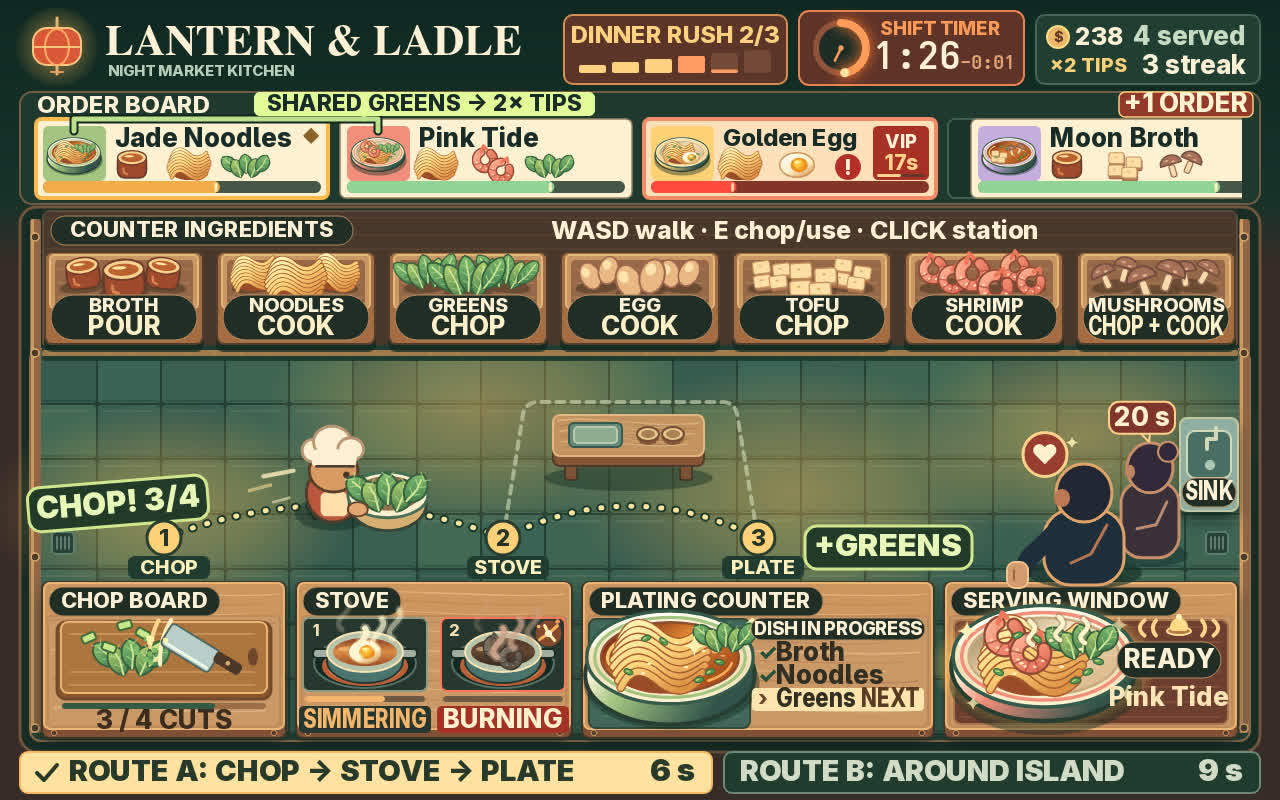
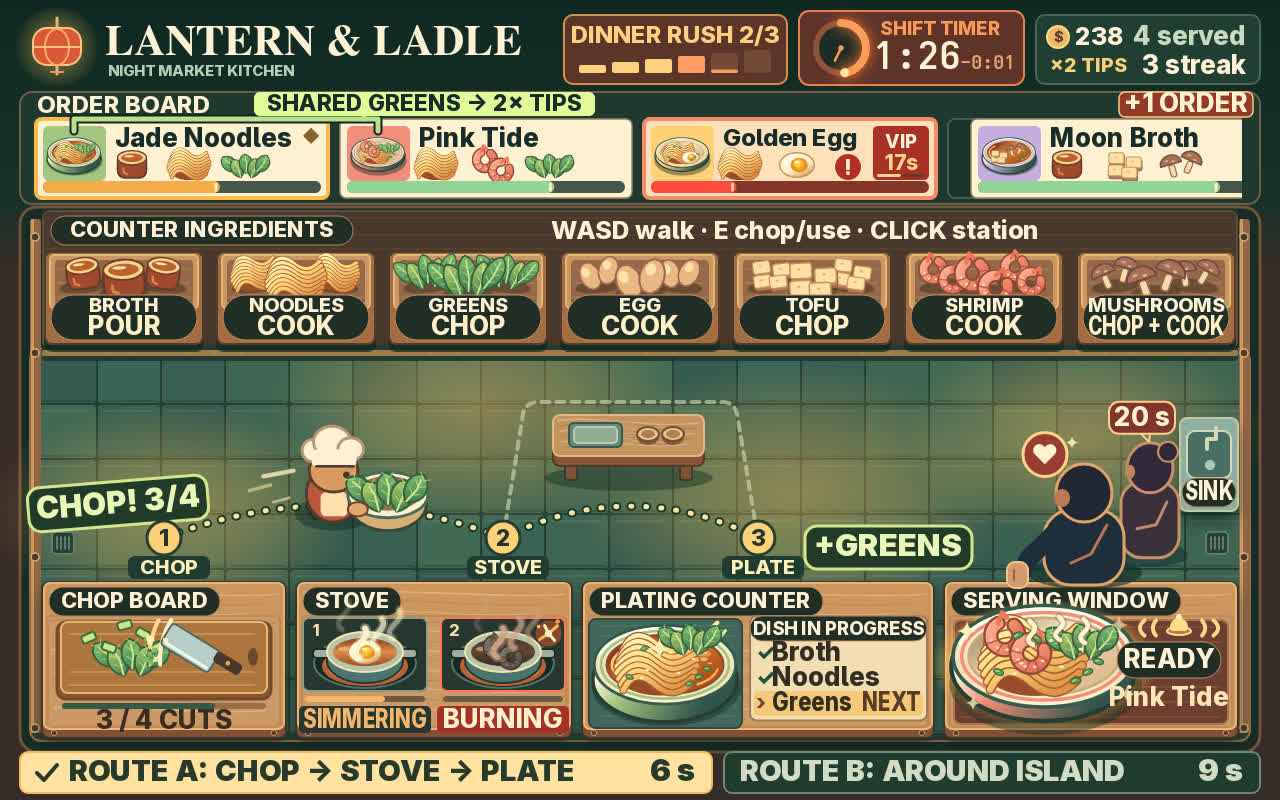
v29: separate bowl and dish-progress card on plating counter

Changed region(s): [[0.4375, 0.75, 0.75, 0.9062]]

diff --git a/game/src/worktops.js b/game/src/worktops.js
@@ -183,35 +183,47 @@ export function drawPlating(ctx, state) {
   const largerLabels = cover || !state.staged;
   const recipe = platingRecipe(state);
   const resting = queuedPlate && !layers.length;
-  const listX = largerLabels ? 751 : 772;
-  panel(ctx, 589, 619, listX - 590, 109, 7, '#41665a', '#31493d');
-  for (let y = 626; y < 724; y += 10) stroke(ctx, '#b9d1ac33', 1.2, [[597, y], [listX - 9, y]]);
-  const bounce = Math.max(0, 1 - (state.elapsed - state.platePop) * 7) * .13;
-  drawDish(ctx, resting ? queuedPlate.layers : layers, largerLabels ? 670 : 679, 659,
-    (largerLabels ? 1.6 : 1.78) + bounce, resting ? queuedPlate.color : recipe.color, resting ? queuedPlate.shape : recipe.shape);
-  if (cover) drawFallingGreens(ctx, state.coverMotion);
   const checklist = resting ? queuedPlate : recipe;
+  const listX = largerLabels ? 750 : 772;
+  const listRight = largerLabels ? 927 : 925;
+  const matRight = largerLabels ? 742 : listX - 1;
+  panel(ctx, 589, 619, matRight - 589, 109, 7, '#41665a', '#31493d');
+  for (let y = 626; y < 724; y += 10) stroke(ctx, '#b9d1ac33', 1.2, [[597, y], [matRight - 8, y]]);
+  const bounce = Math.max(0, 1 - (state.elapsed - state.platePop) * 7) * .13;
+  drawDish(ctx, resting ? queuedPlate.layers : layers, largerLabels ? 665 : 679, largerLabels ? 666 : 659,
+    (largerLabels ? 1.36 : 1.78) + bounce, checklist.color, checklist.shape);
+  if (cover) drawFallingGreens(ctx, state.coverMotion);
+  const fourRows = largerLabels && checklist.layers.length === 4;
+  const rowHeight = largerLabels ? (fourRows ? 22 : 25) : 19;
+  const firstRow = fourRows ? 652 : 653;
+  if (largerLabels) {
+    const cardBottom = firstRow + (checklist.layers.length - .5) * rowHeight + 5;
+    panel(ctx, listX, 616, listRight - listX, cardBottom - 616, 7, '#f4ddb4', '#a57850');
+  }
   drawKitchenSign(ctx, resting ? 'ON TRAY' : layers.length ? 'DISH IN PROGRESS' : 'NEXT DISH',
-    listX, 618, 925 - listX, 22, { size: largerLabels ? 20 : 14 });
-  const rowHeight = largerLabels ? 23 : 19;
+    listX, largerLabels ? 616 : 618, listRight - listX, largerLabels ? 25 : 22,
+    { size: largerLabels ? 20 : 14 });
   checklist.layers.forEach((id, i) => {
     const done = resting || i < layers.length;
     const next = !resting && i === layers.length;
-    const rowY = 653 + i * rowHeight;
-    if (next) panel(ctx, listX + 1, rowY - Math.floor(rowHeight / 2), 923 - listX, rowHeight, 4, '#ffe5ae');
-    label(ctx, done ? '✓' : next ? '›' : '·', listX + (largerLabels ? 7 : 9), rowY,
+    const rowY = firstRow + i * rowHeight;
+    const rowX = listX + (largerLabels ? 4 : 1);
+    if (next) panel(ctx, rowX, rowY - Math.floor(rowHeight / 2),
+      (largerLabels ? 923 : 924) - rowX, rowHeight, 4, largerLabels ? '#f7c879' : '#ffe5ae');
+    label(ctx, done ? '✓' : next ? '›' : '·', listX + (largerLabels ? 6 : 9), rowY,
       largerLabels ? 22 : 19, done ? '#254f39' : '#6f452e');
-    label(ctx, ingredients[id].name, listX + 25, rowY, largerLabels ? 26 : 16, '#302d23',
-      { maxWidth: next ? 80 : 918 - listX - 25 });
-    if (next) label(ctx, 'NEXT', largerLabels ? 920 : 918, rowY, largerLabels ? 26 : 10, largerLabels ? '#5a3c25' : '#78502e',
+    const nameX = listX + (largerLabels ? 22 : 25);
+    label(ctx, ingredients[id].name, nameX, rowY, largerLabels ? 26 : 16, '#302d23',
+      { maxWidth: next ? 80 : 918 - nameX });
+    if (next) label(ctx, 'NEXT', largerLabels ? 921 : 918, rowY, largerLabels ? 26 : 10, largerLabels ? '#5a3c25' : '#78502e',
       { align: 'right', maxWidth: 59 });
   });
 }
 
 function drawFallingGreens(ctx, motion) {
   const progress = ((motion + .03) % .7) / .7;
-  const x = 743 - progress * 35;
-  const y = 626 + progress * 20;
+  const x = 701 - progress * 21;
+  const y = 628 + progress * 21;
   stroke(ctx, '#fff2b7', 4, [[x + 16, y - 6], [x + 27, y - 16]]);
   stroke(ctx, '#d8eaaa', 3, [[x + 27, y + 2], [x + 35, y - 8]]);
   drawIngredient(ctx, 'greens', x, y, .94, 'chopped');
